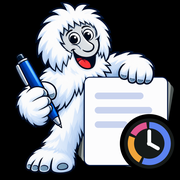
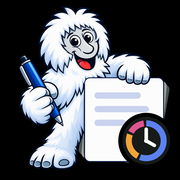
v90: App-Symbol auf 95 % verkleinert
So gewählt (Vergleich 100/95/90/85 %): Der Kopf des Yetis stieß an den oberen Rand. Inhalt
auf 95 % mittig auf Schwarz für apple-touch-icon, icon-192 und icon-512; maskable bleibt
(hat schon 80 %). Verweise auf ?v=4.

Changed region(s): [[0.0833, 0.0, 0.9722, 0.9722], [0.7778, 0.5, 0.8056, 0.5556], [0.3333, 0.75, 0.3611, 0.7778]]

diff --git a/lock.js b/lock.js
@@ -82,7 +82,7 @@ function showLock() {
   document.body.insertAdjacentHTML(
     'beforeend',
     `<div id="lock" role="dialog" aria-modal="true"><div class="lock-bg"></div>
-      <img src="icons/icon-512.png?v=3" alt="" class="lock-icon">
+      <img src="icons/icon-512.png?v=4" alt="" class="lock-icon">
       <b class="lock-title">Std-Protokoll ist gesperrt</b>
       <span class="lock-sub">Mit Face ID entsperren</span>
       <button class="lock-btn" data-lock="open"><svg viewBox="0 0 24 24" fill="none" stroke="currentColor" stroke-width="1.8" stroke-linecap="round"><path d="M4 8V6a2 2 0 0 1 2-2h2M16 4h2a2 2 0 0 1 2 2v2M20 16v2a2 2 0 0 1-2 2h-2M8 20H6a2 2 0 0 1-2-2v-2M9 9.5v1M15 9.5v1M12 9.5v3.5h-1M9.5 15.5c1.4 1.2 3.6 1.2 5 0"/></svg>Entsperren</button>

diff --git a/sw.js b/sw.js
@@ -1,5 +1,5 @@
 // Offline-Cache: Mit Internet wird immer die neueste Version geladen, ohne Internet die gespeicherte.
-const CACHE = 'std-protokoll-v89';
+const CACHE = 'std-protokoll-v90';
 const ASSETS = [
   './',
   'index.html',
@@ -24,10 +24,10 @@ const ASSETS = [
   'karten.js',
   'fonts/special-elite.woff2',
   'manifest.webmanifest',
-  'icons/apple-touch-icon.png?v=3',
-  'icons/icon-192.png?v=3',
-  'icons/icon-512.png?v=3',
-  'icons/icon-maskable-512.png?v=3',
+  'icons/apple-touch-icon.png?v=4',
+  'icons/icon-192.png?v=4',
+  'icons/icon-512.png?v=4',
+  'icons/icon-maskable-512.png?v=4',
 ];
 
 self.addEventListener('install', (event) => {

diff --git a/index.html b/index.html
@@ -21,8 +21,8 @@
 </script>
 <title>Std-Protokoll</title>
 <link rel="manifest" href="manifest.webmanifest">
-<link rel="apple-touch-icon" href="icons/apple-touch-icon.png?v=3">
-<link rel="icon" type="image/png" href="icons/icon-192.png?v=3">
+<link rel="apple-touch-icon" href="icons/apple-touch-icon.png?v=4">
+<link rel="icon" type="image/png" href="icons/icon-192.png?v=4">
 <link rel="stylesheet" href="styles.css">
 </head>
 <body>
